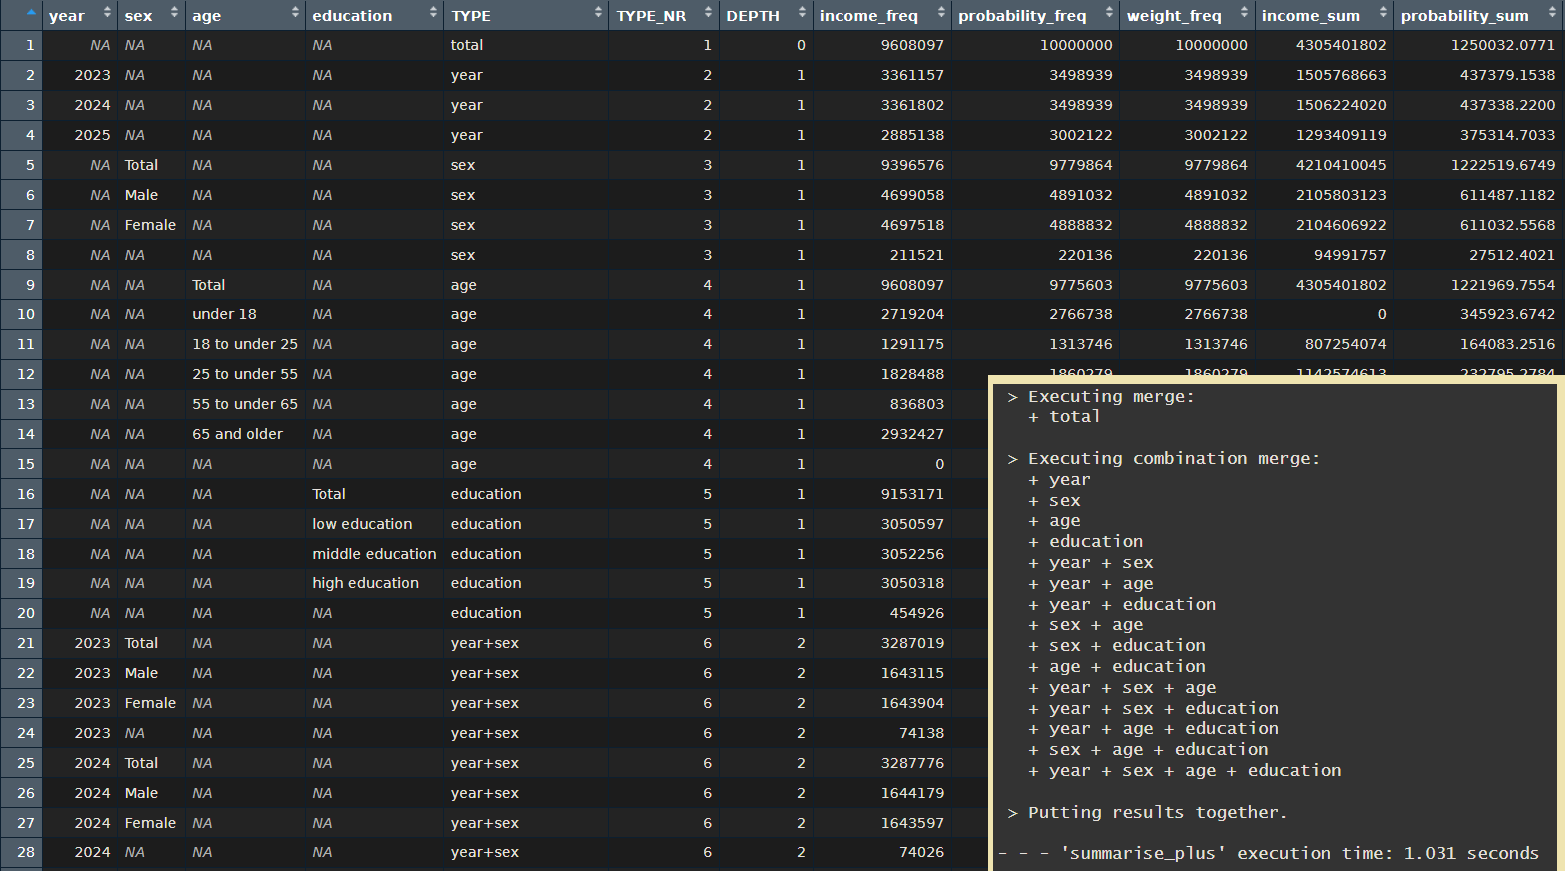
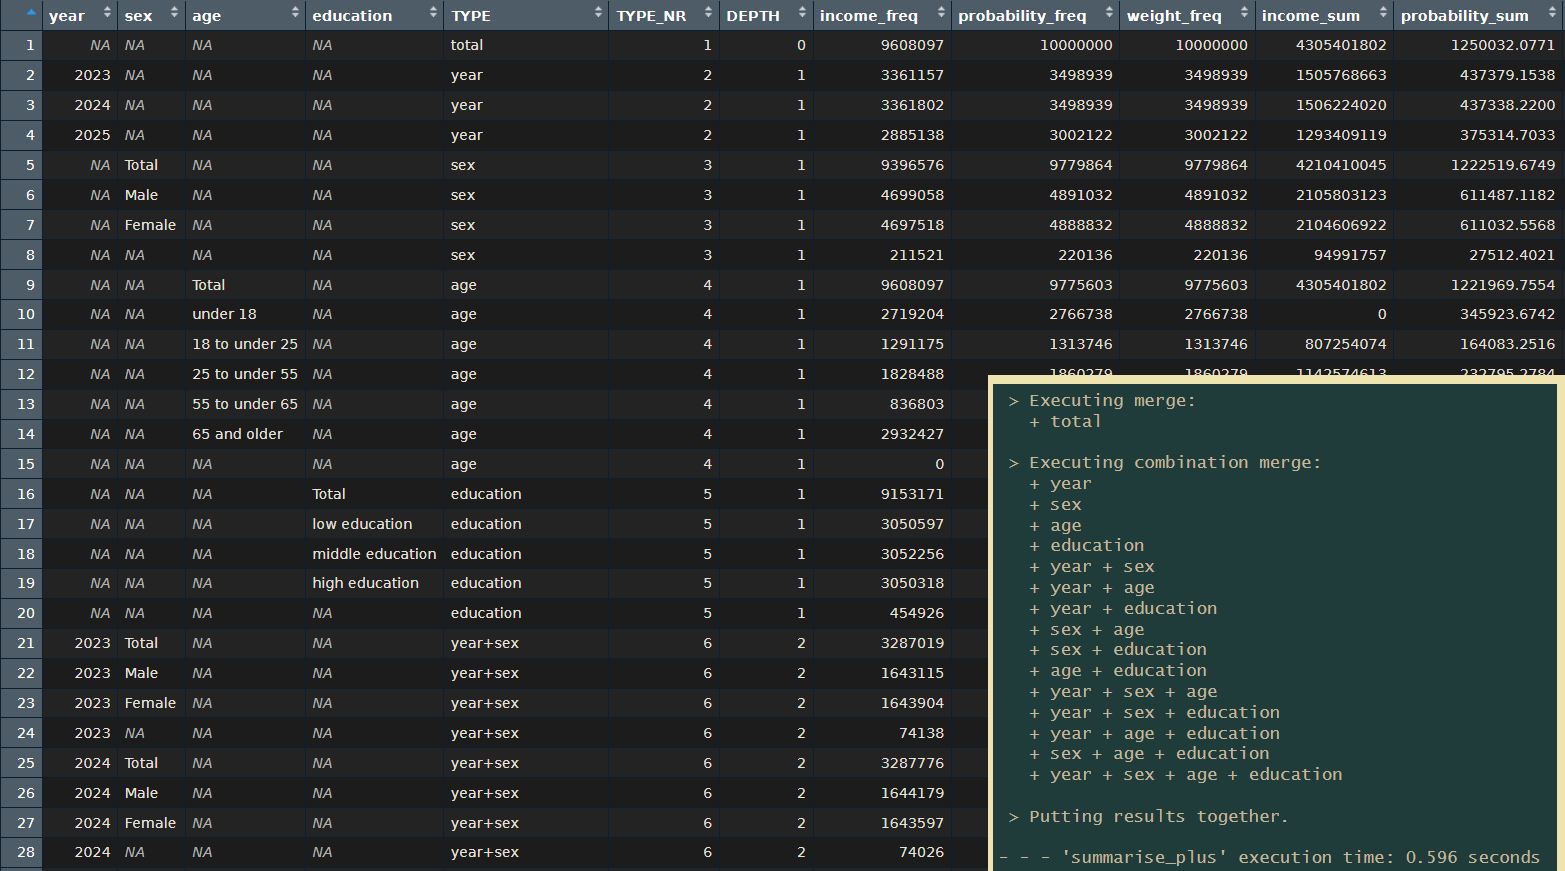
qol 1.2.0 - v5
Optimisation for `summarise_plus` and anything that has to do with applying formats. Speed enhancement can be seen in the first screenshot, was 1 sec before.

* `summarise_plus()`: Swapped in more collapse functions. Turned off sorting of "collapse::GRP" when using the shortcut route.
* `apply_formats()`: NA value subsetting is now only done once and not twice with interval formats. "data.table::setkey" is now only called on the format data frame.

Changed region(s): [[0.6441, 0.496, 0.8588, 0.899], [0.6441, 0.93, 0.9815, 0.992], [0.6441, 0.434, 0.7668, 0.496]]

diff --git a/NEWS.md b/NEWS.md
@@ -16,14 +16,18 @@
 * `any_table()`: Now checks if a column combination is also part of the row combinations. (22.12.2025)
 * `any_table()`: Fixed row header variables where sorted alphabetically instead of in provided order. Bug was introduced in version 1.1.1. (23.12.2025)
 
+### Optimisation
+* `summarise_plus()`: Now uses faster `collapse::na_omit` for NA removal. (27.12.2025)
+* `dummy_data()`: Optimized and now just takes half the time to generate data. (27.12.2025)
+* `summarise_plus()`: Swapped in more collapse functions. Turned off sorting of "collapse::GRP" when using the shortcut route. (28.12.2025)
+* `apply_formats()`: NA value subsetting is now only done once and not twice with interval formats. "data.table::setkey" is now only called on the format data frame. (28.12.2025)
+
 ### Additionally
 * Restructured some "Small Helpers" into "Renaming" and "Variable Selection". (21.12.2025)
 * Adjusted some warning messages. (22.12.2025)
 * Added some comments to the heavier functions, to enhance visual code structure. (22.12.2025)
 * `any_table()`: Added an error check in case a variable combination was provided, which is not part of a pre summarised data frame. (23.12.2025)
-* `summarise_plus()`: Now uses faster `collapse::na_omit` for NA removal. (27.12.2025)
 * Added `transpose_plus()` and `sort_plus()` examples to the README. (27.12.2025)
-* `dummy_data()`: Optimized and now just takes half the time to generate data. (27.12.2025)
 
 
 # qol 1.1.1 - CRAN release on 13.12.2025

diff --git a/cran-comments.md b/cran-comments.md
@@ -17,10 +17,14 @@ Fixed
 * any_table(): Now checks if a column combination is also part of the row combinations.
 * any_table(): Fixed row header variables where sorted alphabetically instead of in provided order. Bug was introduced in version 1.1.1.
 
+Optimisation
+* summarise_plus(): Now uses faster `collapse::na_omit` for NA removal.
+* dummy_data(): Optimized and now just takes half the time to generate data.
+* summarise_plus(): Swapped in more collapse functions. Turned off sorting of "collapse::GRP" when using the shortcut route.
+* apply_formats(): NA value subsetting is now only done once and not twice with interval formats. "data.table::setkey" is now only called on the format data frame.
+
 Additionally
 * any_table(): Added an error check in case a variable combination was provided, which is not part of a pre summarised data frame.
-* summarise_plus(): Now uses faster collapse::na_omit for NA removal.
-* dummy_data(): Optimized and now just takes half the time to generate data.
 
 ## R CMD check results
 
